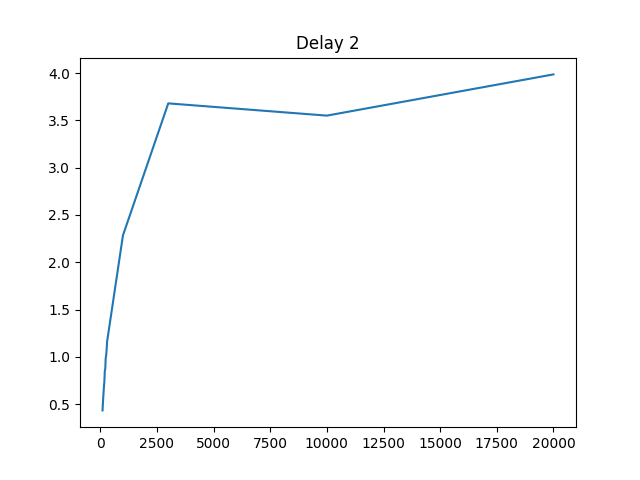
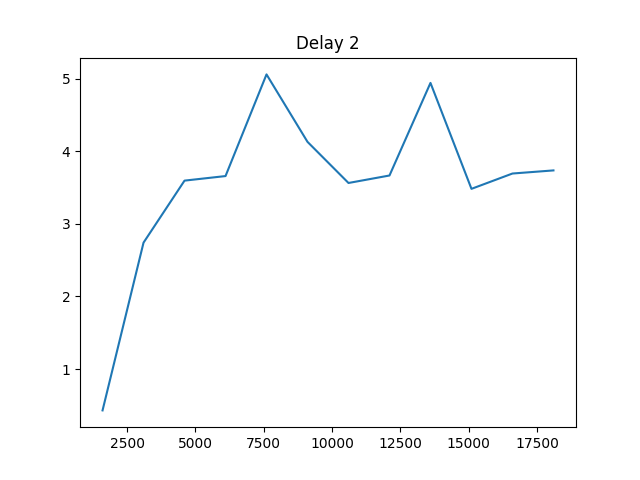
dynamic

diff --git a/driver.py b/driver.py
@@ -10,17 +10,51 @@ import numpy as np
 def main():
 
     # bsizes = [100, 200, 300, 400, 500, 600, 700, 800, 900, 1000]
-    bsizes = [100, 120, 140, 160, 180, 200, 220, 240, 260, 280, 300, 1000,3000, 10000, 20000]
+
+
     pdrops = []
     delay1s = []
     delay2s = []
-    for bsize in bsizes:
-        delay1, delay2, pdrop = QueueNet2.main(bsize)
-        pdrops.append(pdrop)
-        delay1s.append(delay1)
-        delay2s.append(delay2)
+    sw_pdrops = []
+    throughputs = []
+    mode = "dynamic"
+    if mode == "static":
+        bsizes = [100, 120, 140, 160, 180, 200, 220, 240, 260, 280, 300, 1000, 3000, 10000, 20000]
+        for bsize in bsizes:
+            delay1, delay2, pdrop, sw_pdrop, throughput = QueueNet2.main(bsize)
+            pdrops.append(pdrop)
+            delay1s.append(delay1)
+            delay2s.append(delay2)
+            sw_pdrops.append(sw_pdrop)
+            throughputs.append(throughput)
 
-    print(delay1s, delay2s, pdrops)
+    else:
+        bsize = 100  # initial
+        bsizes = []
+        for i in range(12):
+            delay1, delay2, pdrop, sw_pdrop, throughput = QueueNet2.main(bsize)
+            pdrops.append(pdrop)
+            delay1s.append(delay1)
+            delay2s.append(delay2)
+            sw_pdrops.append(sw_pdrop)
+            throughputs.append(throughput)
+            reward = 0
+            if (delay1 + delay2) > (delay1s[-1]+delay2s[-1]):
+                reward -= 10
+            else:
+                reward += 10
+
+            if throughput < throughputs[-1]:
+                reward -= 20
+            else:
+                reward += 20
+
+            bsize += (reward * 50)
+
+            print("Buffer size is now ", bsize)
+            bsizes.append(bsize)
+
+    # print(delay1s, delay2s, pdrops, sw_pdrops)
 
     plt.figure(1)
     plt.title("Delay 1")
@@ -38,9 +72,20 @@ def main():
 
     plt.figure(3)
     plt.title("Packet drop %")
-    # plt.xticks(np.arange(min(bsizes), max(bsizes) + 1, 50))
     plt.plot(np.array(bsizes), np.array(pdrops))
     plt.savefig("pdrop.png")
+    plt.show()
+
+    plt.figure(4)
+    plt.title("Switch packet drop %")
+    plt.plot(np.array(bsizes), np.array(sw_pdrops))
+    plt.savefig("sw_pdrop.png")
+    plt.show()
+
+    plt.figure(5)
+    plt.title("Throughput")
+    plt.plot(np.array(bsizes), np.array(throughputs))
+    plt.savefig("throughput.png")
     plt.show()
 
 

diff --git a/QueueNet2.py b/QueueNet2.py
@@ -63,24 +63,29 @@ def main(custom_queue=300):
     switch_port3.out = ps1
     switch_port4.out = ps2
     # Run it
-    env.run(until=4000)
-    print(ps2.waits[-10:])
+    time_slice = 4000
+    env.run(until=time_slice)
+    # print(ps2.waits[-10:])
     # print pm.sizes[-10:]
     # print ps.arrivals[-10:]
     delay1 = sum(ps1.waits) / len(ps1.waits)
-    print("average wait source 1 to output 3 = {}".format(delay1))
     delay2 = sum(ps2.waits) / len(ps2.waits)
-    print("average wait source 2 to output 4 = {}".format(delay2))
-    print("packets sent {}".format(pg1.packets_sent + pg2.packets_sent))
-    print("packets received: {}".format(len(ps2.waits)))
+    print("Delays=", delay1, delay2)
     packets_sent = pg1.packets_sent + pg2.packets_sent + pg3.packets_sent
     packets_received = len(ps1.waits) + len(ps2.waits)
     pdrop = ((packets_sent-packets_received)/packets_sent) * 100
 
     pdrop = round(pdrop, 2)
     print("Packet drop = {} %".format(pdrop))
+    sw_pdrop = switch_port1.packets_drop + switch_port2.packets_drop + switch_port3.packets_drop + switch_port4.packets_drop
+    sw_pdrop = (sw_pdrop/packets_sent)*100
+    print("Switch packet drop = {} %".format(sw_pdrop))
 
-    return delay1, delay2, pdrop
+    throughput = packets_received/time_slice   # not accurate since we are considering number of packets, not their sizes, try port monitor
+    print("Throughput = {}".format(throughput))
+
+
+    return delay1, delay2, pdrop, sw_pdrop, throughput
     # print "average system occupancy: {}".format(float(sum(pm.sizes))/len(pm.sizes))
 
 
